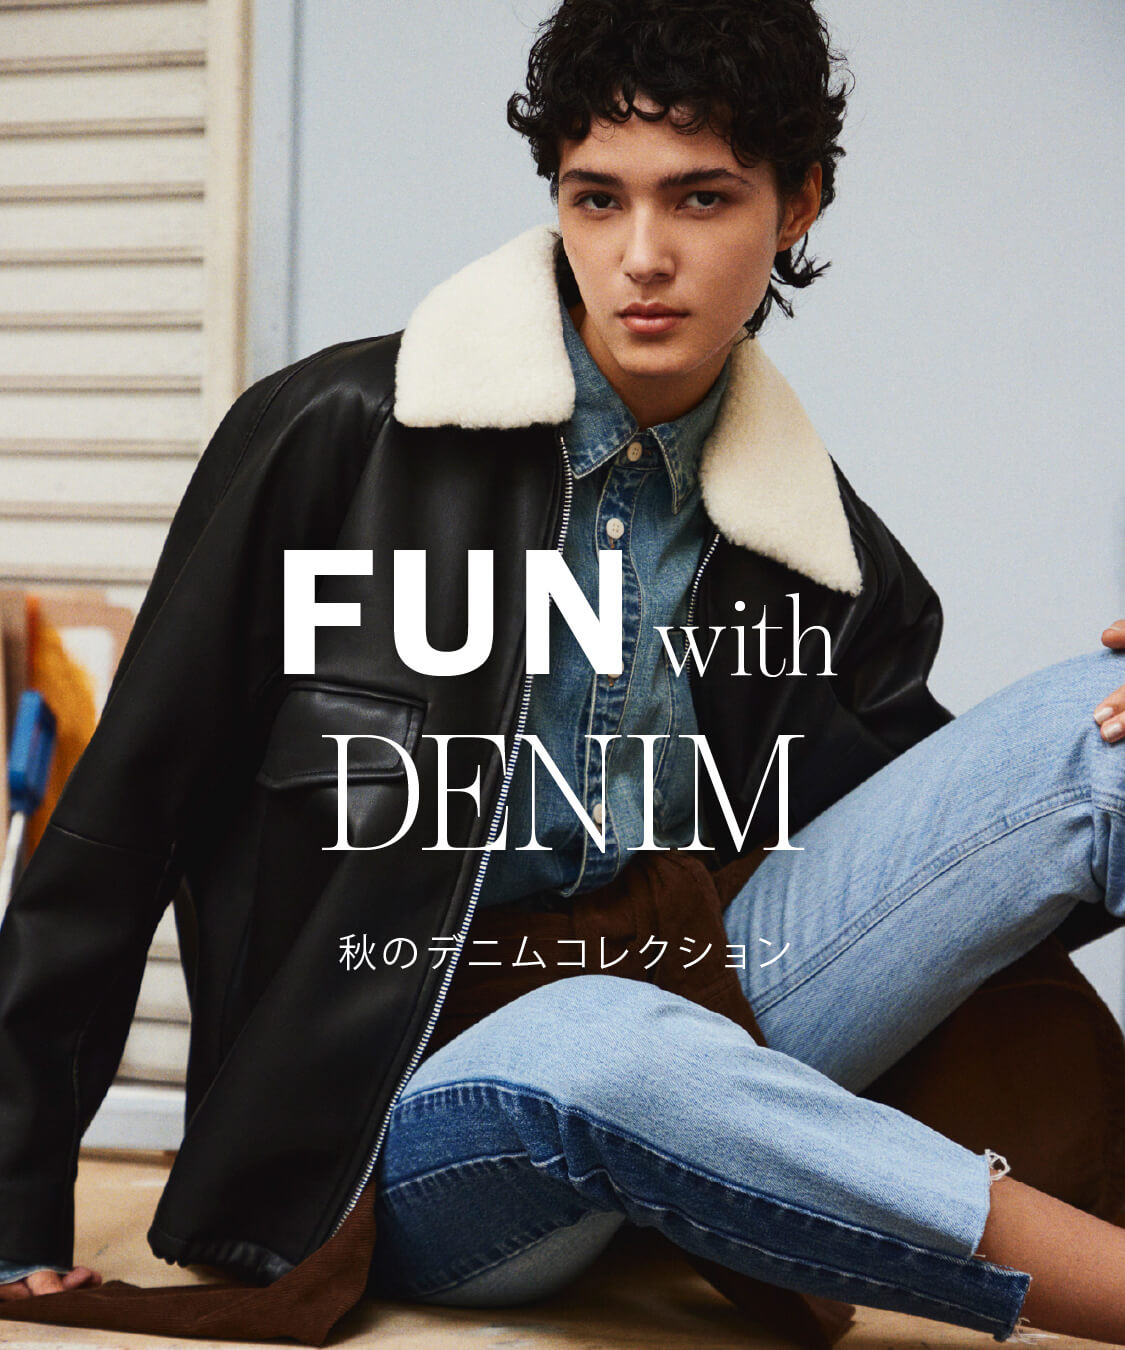
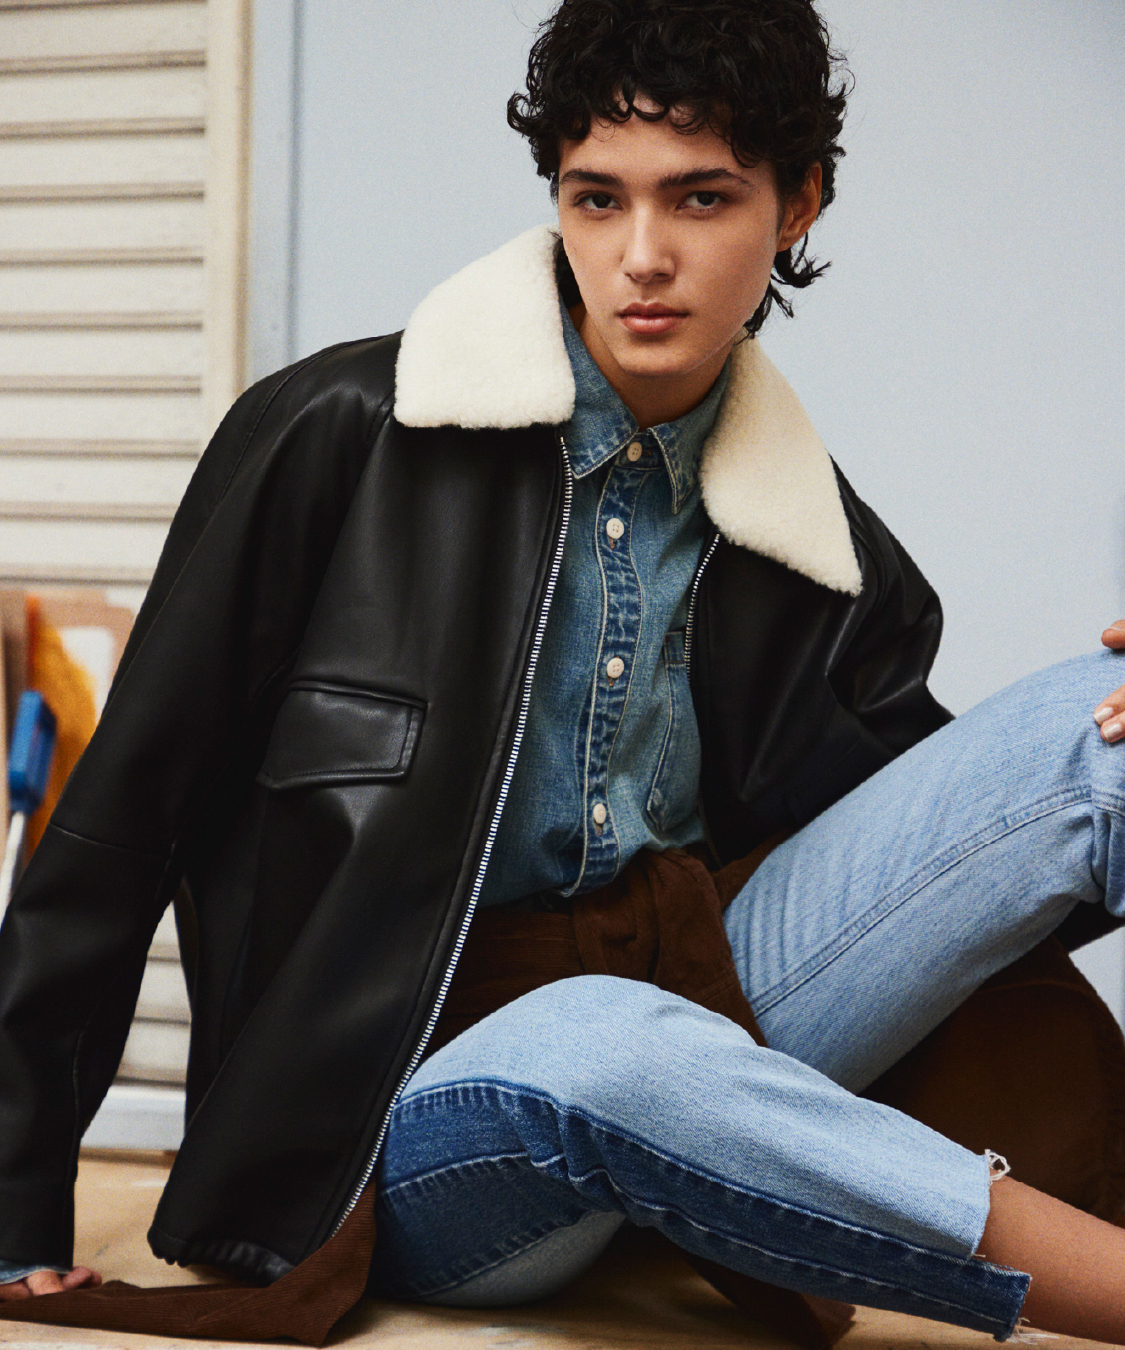
add code

diff --git a/css/style.css b/css/style.css
@@ -188,6 +188,19 @@
 #MO250911DENIM .lp-scroll-content {
   padding-bottom: calc(305 * var(--formula));
 }
+#MO250911DENIM .lp-kv-images {
+  position: relative;
+  width: 100%;
+  overflow: hidden;
+}
+#MO250911DENIM .lp-kv-image__text {
+  position: absolute;
+  width: calc(369.0859 * var(--formula));
+  top: 56.3%;
+  left: 50%;
+  -webkit-transform: translate(-50%, -50%);
+          transform: translate(-50%, -50%);
+}
 #MO250911DENIM .sec-01 {
   padding-top: calc(102 * var(--formula));
 }
@@ -366,10 +379,16 @@
     width: 50vw;
     height: 100vh;
   }
-  #MO250911DENIM .lp-fix-content img {
+  #MO250911DENIM .lp-kv-images a {
+    width: 100%;
+  }
+  #MO250911DENIM .lp-kv-image img {
     height: 100vh;
     -o-object-fit: cover;
        object-fit: cover;
+  }
+  #MO250911DENIM .lp-kv-image__text {
+    width: 47.844375%;
   }
   #MO250911DENIM .lp-scroll-content {
     width: 50vw;

diff --git a/scss/page/_sp.scss b/scss/page/_sp.scss
@@ -6,6 +6,19 @@
   .lp-scroll-content {
     padding-bottom: vw(305);
   }
+  // KV
+  .lp-kv-images {
+    position: relative;
+    width: 100%;
+    overflow: hidden;
+  }
+  .lp-kv-image__text {
+    position: absolute;
+    width: vw(369.0859);
+    top: 56.3%;
+    left: 50%;
+    transform: translate(-50%,-50%);
+  }
   // section01
   .sec-01 {
     padding-top: vw(102);

diff --git a/scss/page/_pc.scss b/scss/page/_pc.scss
@@ -14,9 +14,15 @@
       width: 50vw;
       height: 100vh;
     }
-    .lp-fix-content img {
+    .lp-kv-images a {
+      width: 100%;
+    }
+    .lp-kv-image img {
       height: 100vh;
       object-fit: cover;
+    }
+    .lp-kv-image__text {
+      width: calc(344.4795 / 720 * 100%);
     }
     .lp-scroll-content {
       width: 50vw;
